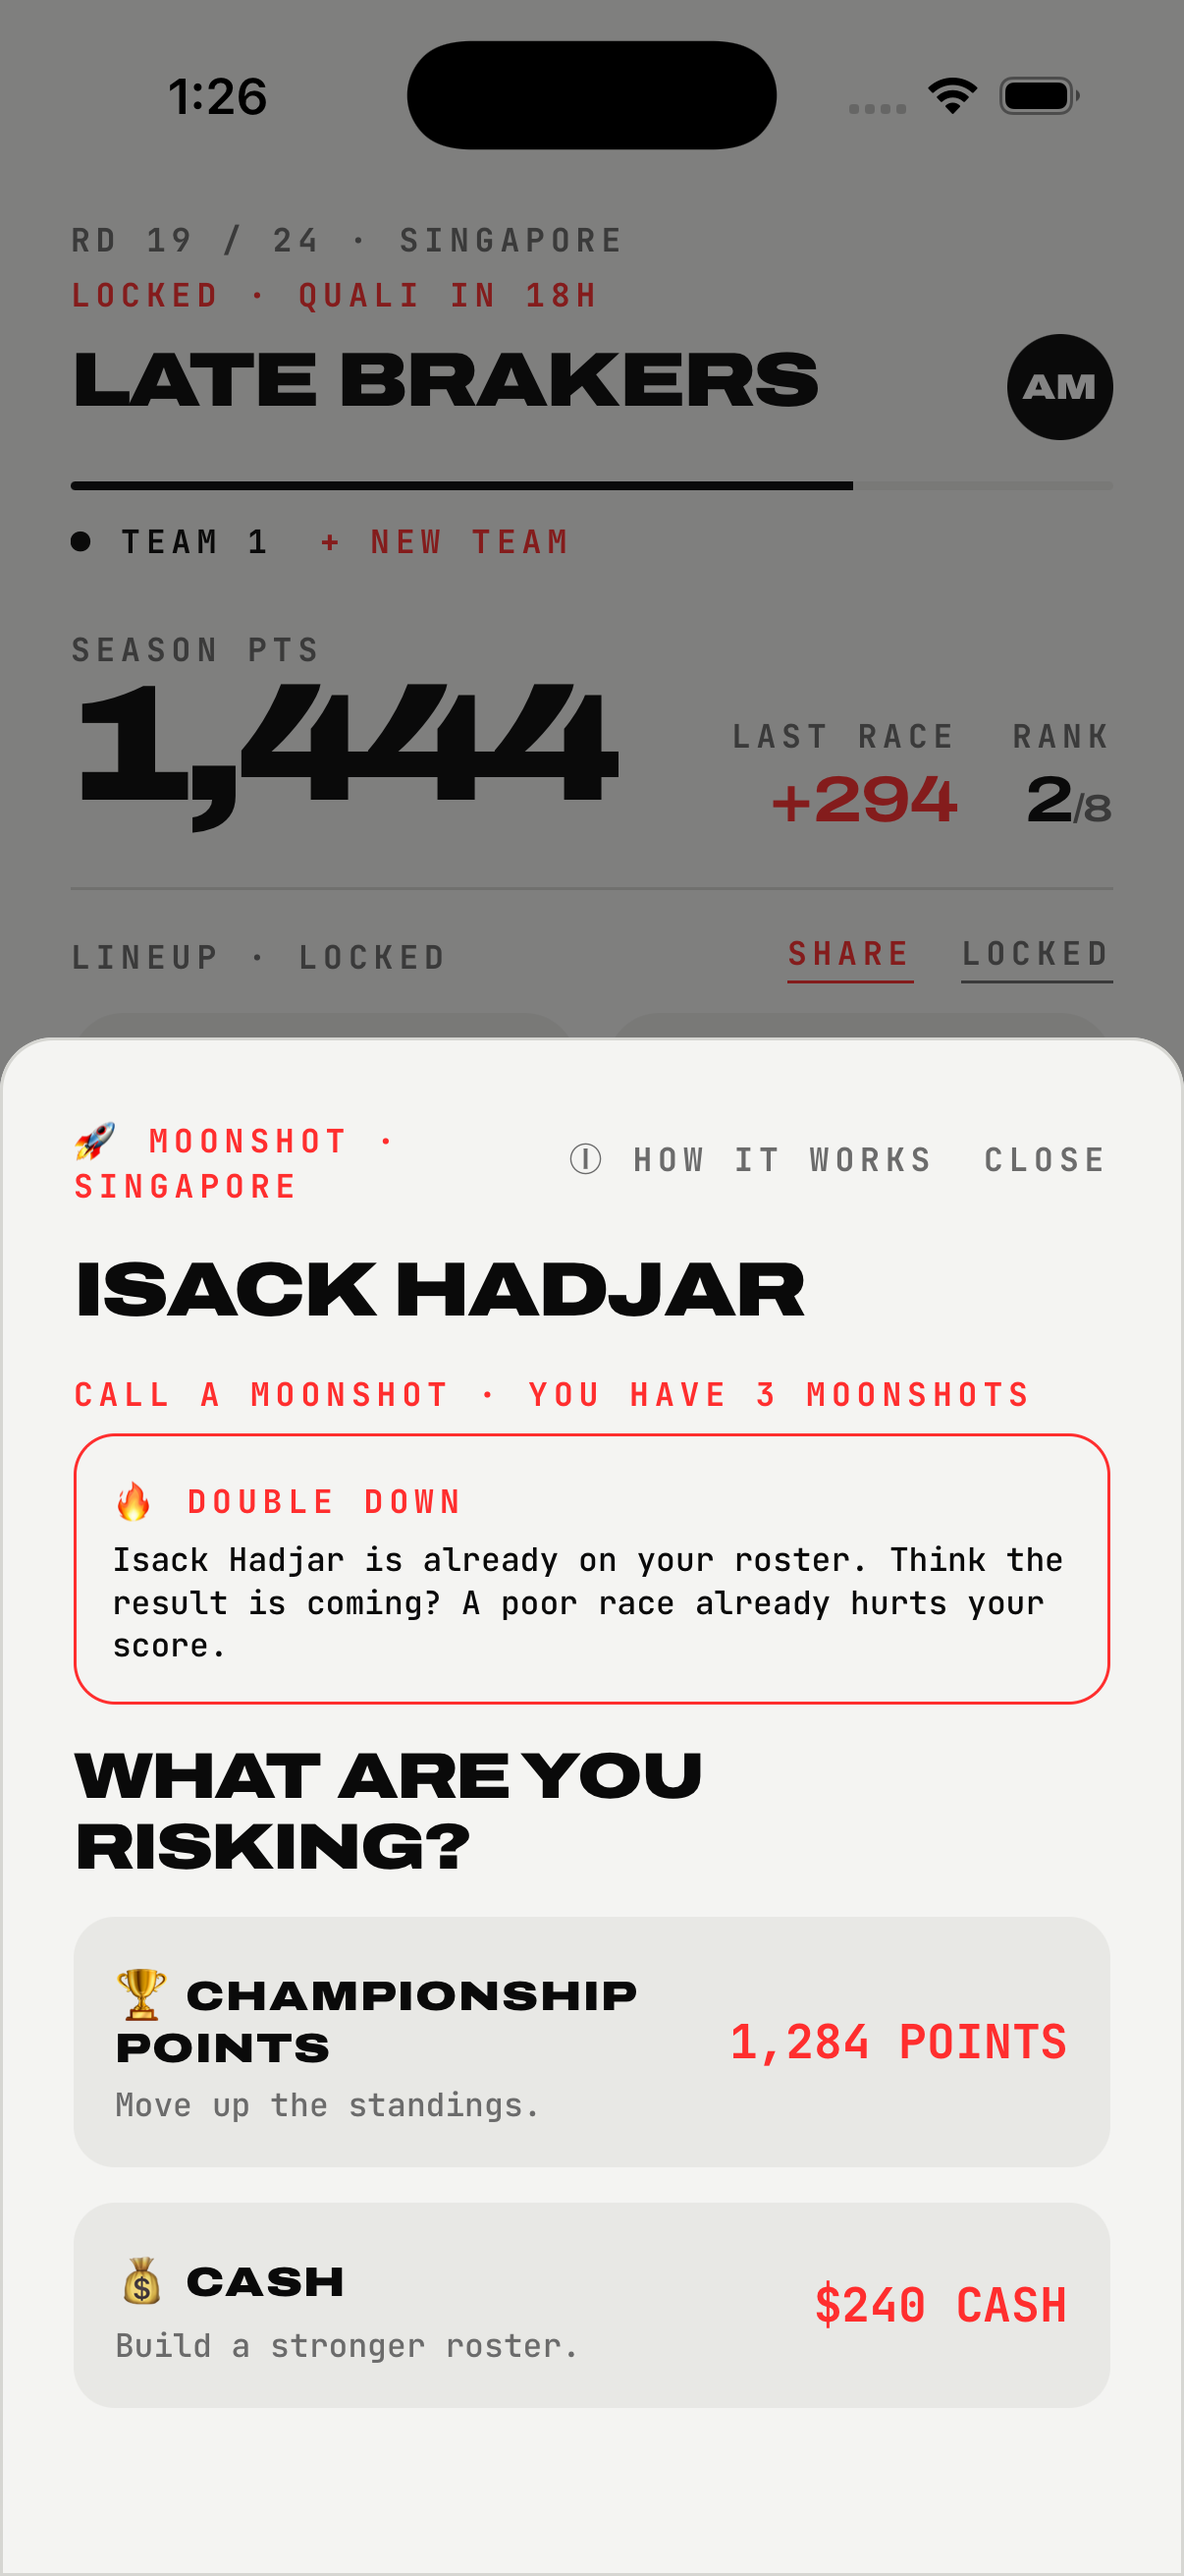
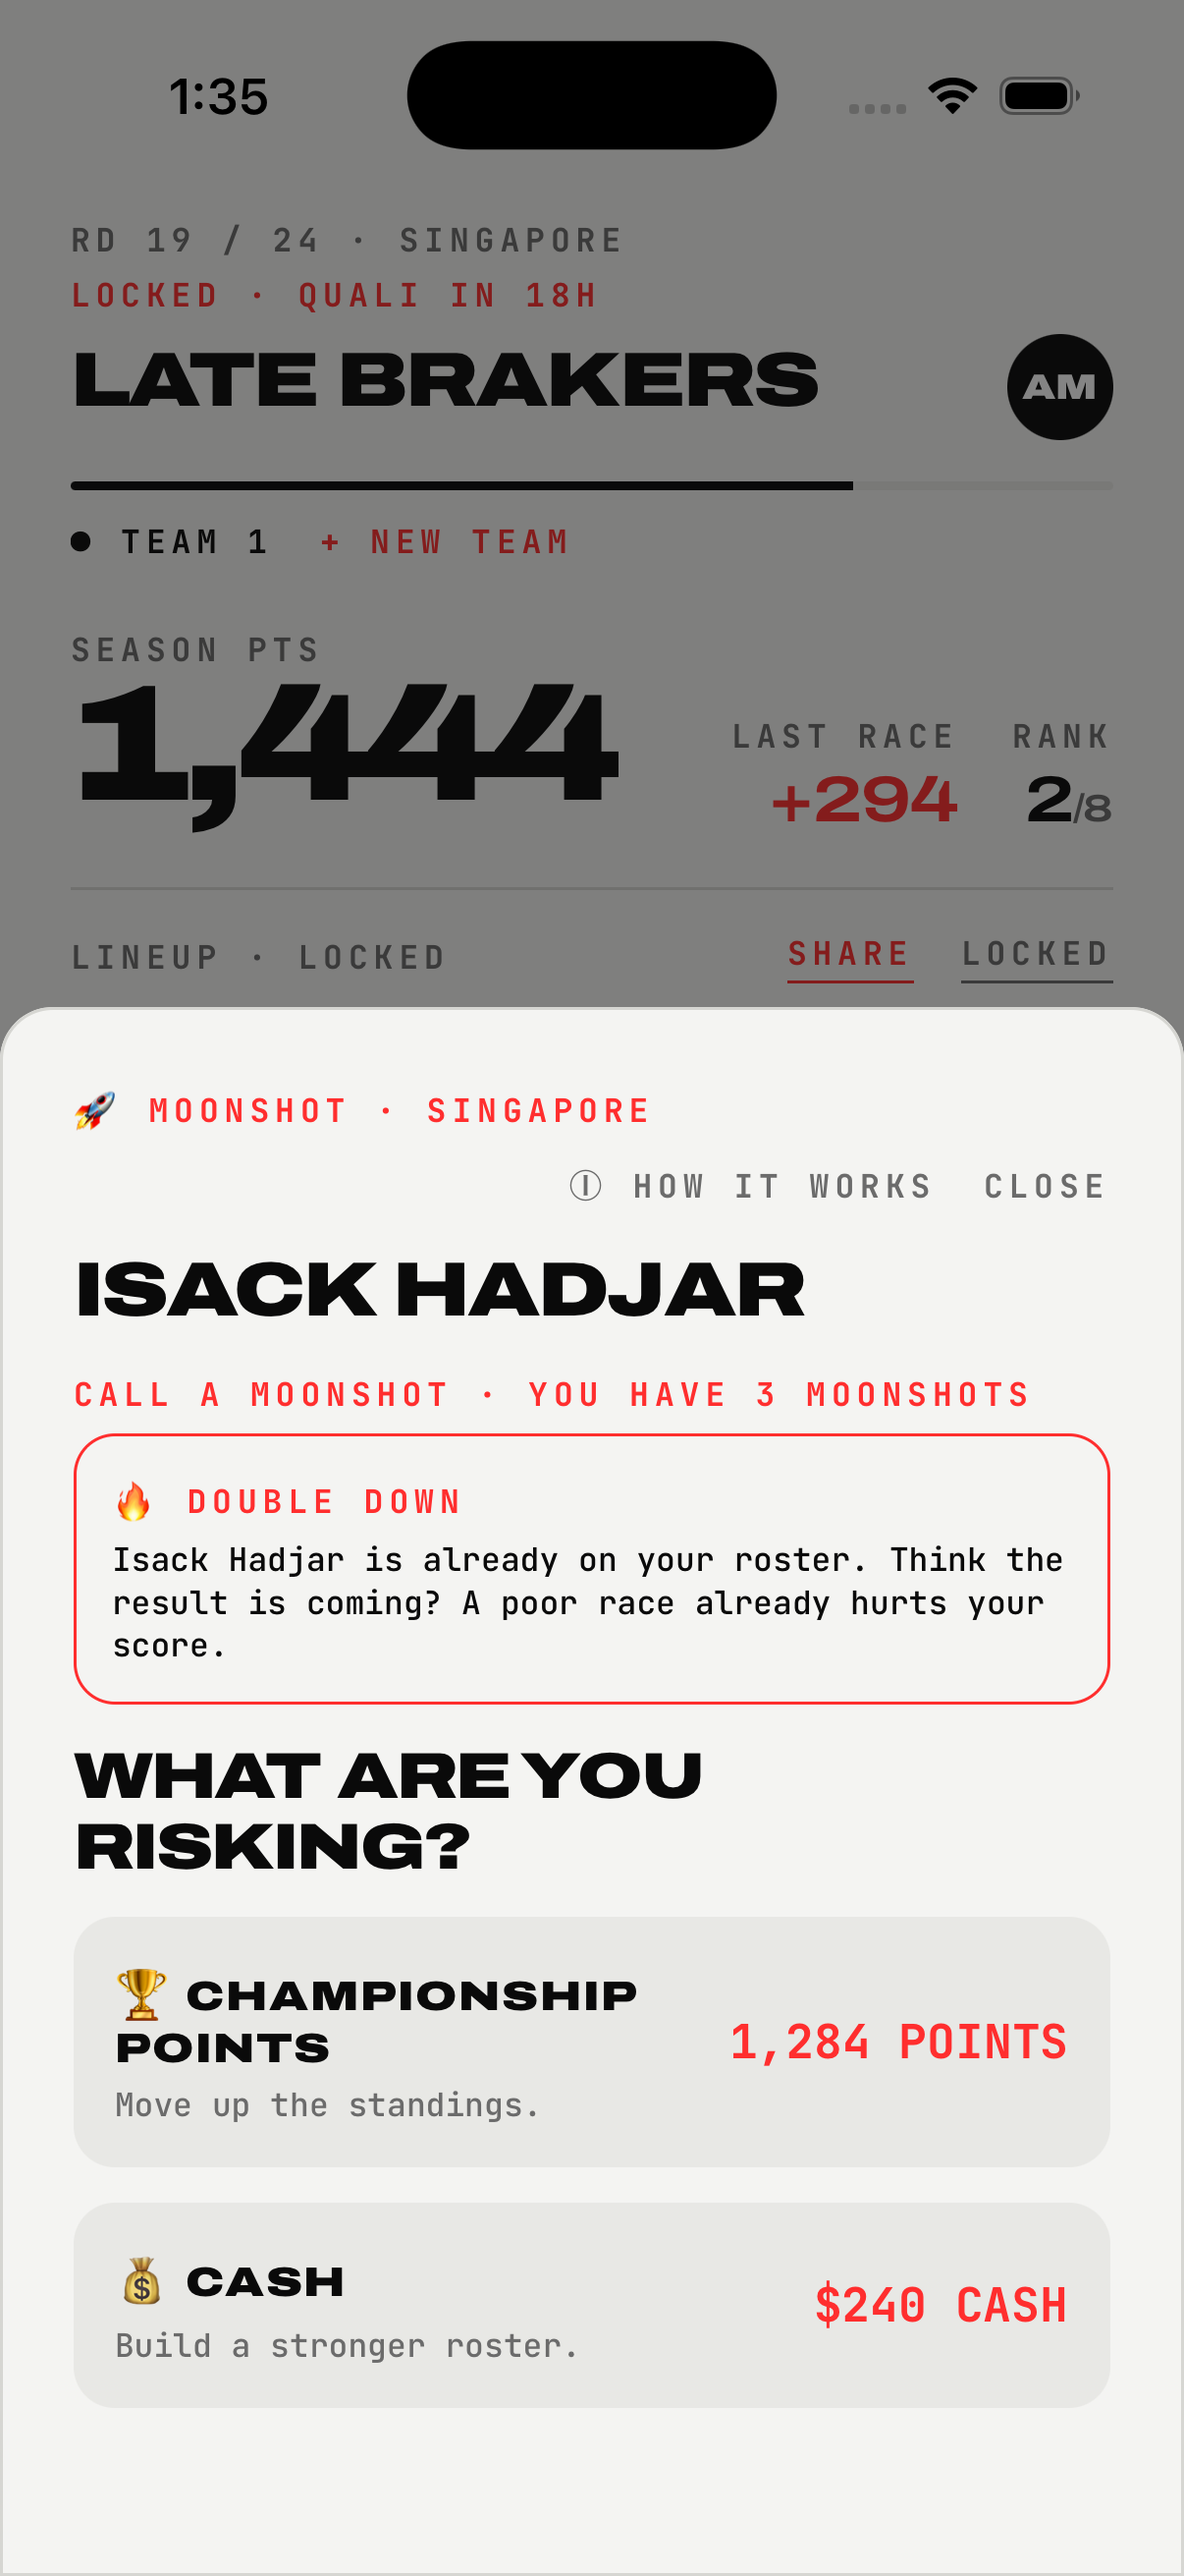
fix(uc): the Moonshot sheet header wraps instead of squeezing the title (F-108)
From the local review: one row with a shrinking title collapsed at the larger
display sizes. The row now wraps, so the buttons drop to their own line when
they do not fit, and neither the title nor the name is capped. Checked on the
simulator at M and XXL.

diff --git a/src/simple/grid/GridMoonshotSheet.tsx b/src/simple/grid/GridMoonshotSheet.tsx
@@ -283,17 +283,17 @@ export function GridMoonshotSheet({ target, cfg, onClose, onChanged }: Props) {
         <Pressable style={[StyleSheet.absoluteFill, { backgroundColor: colors.scrim }]} onPress={onClose} accessibilityRole="button" accessibilityLabel="Close" />
         <View style={{ maxHeight: '88%', backgroundColor: colors.surface, borderTopLeftRadius: 18, borderTopRightRadius: 18, borderWidth: 1, borderColor: colors.border }}>
           <ScrollView contentContainerStyle={{ padding: spacing.xl, paddingBottom: Math.max(insets.bottom, 12) + 22, gap: 14 }} showsVerticalScrollIndicator={false}>
-            {/* the title gives way, never the buttons: on a long race name it wraps instead of pushing CLOSE off the edge */}
-            <View style={{ flexDirection: 'row', justifyContent: 'space-between', alignItems: 'center', gap: 12 }}>
-              <MonoLabel color={colors.primary} numberOfLines={2} style={{ flex: 1, minWidth: 0 }}>🚀 {copyText(copy, 'tabTitle')} · {shortRaceName(target.raceName).toUpperCase()}</MonoLabel>
-              <View style={{ flexDirection: 'row', gap: 16, flexShrink: 0 }}>
+            {/* a wrapping row: when the title and the buttons do not fit side by side (most race names, any larger display size) the buttons drop to their own line instead of running off the edge */}
+            <View style={{ flexDirection: 'row', flexWrap: 'wrap', justifyContent: 'space-between', alignItems: 'center', columnGap: 12, rowGap: 10 }}>
+              <MonoLabel color={colors.primary} style={{ flexShrink: 1 }}>🚀 {copyText(copy, 'tabTitle')} · {shortRaceName(target.raceName).toUpperCase()}</MonoLabel>
+              <View style={{ flexDirection: 'row', flexWrap: 'wrap', flexShrink: 1, marginLeft: 'auto', columnGap: 16, rowGap: 10 }}>
                 <Pressable onPress={() => { openTutorial(); track('moonshot_tutorial_viewed', { from: 'info' }); }} hitSlop={12} accessibilityRole="button" accessibilityLabel="How Moonshots work"><MonoLabel color={colors.text.muted}>ⓘ HOW IT WORKS</MonoLabel></Pressable>
                 <Pressable onPress={onClose} hitSlop={12} accessibilityRole="button" accessibilityLabel="Close"><MonoLabel color={colors.text.muted}>CLOSE</MonoLabel></Pressable>
               </View>
             </View>
             {showName ? (
-              // no adjustsFontSizeToFit: this mounts once the menu has loaded, and on iOS the fit then shrinks the name to a few points
-              <Text numberOfLines={2} style={{ fontFamily: family.ui.black, fontSize: scaled(26), lineHeight: scaled(28), letterSpacing: -scaled(26) * 0.03, textTransform: 'uppercase', color: colors.text.primary }}>{target.driverName}</Text>
+              // no adjustsFontSizeToFit: on iOS it rendered this name a few points high the first time the sheet opened; a long name wraps
+              <Text style={{ fontFamily: family.ui.black, fontSize: scaled(26), lineHeight: scaled(28), letterSpacing: -scaled(26) * 0.03, textTransform: 'uppercase', color: colors.text.primary }}>{target.driverName}</Text>
             ) : null}
             {body()}
           </ScrollView>

diff --git a/.aidlc/specs/F-108.md b/.aidlc/specs/F-108.md
@@ -37,11 +37,16 @@ Tile sheet opens with one extra read (tokens and current call from the team docu
 
 ## Follow-up 2026-10-09: two faults on iPhone
 Seen while checking the sheet on the iOS simulator for 2.5.2, and present since the sheet shipped
-(`docs/design/grid/verify/F-108-ios-moonshot-sheet-before.png`, `…-after.png`).
-- The header row was wider than the sheet on a long race name, so CLOSE was clipped at the right
-  edge. The title now takes the space that is left and wraps; the two buttons never shrink.
+(`docs/design/grid/verify/F-108-ios-moonshot-sheet-before.png`, `…-after.png`, `…-after-xxl.png`).
+- The header row was wider than the sheet, so CLOSE was clipped at the right edge. It happened at
+  the default size on a nine-letter race name, so on most races. The row now wraps: when the title
+  and the two buttons do not fit side by side the buttons drop to their own line, right-aligned.
+  Nothing is capped or truncated, so the same holds at larger display sizes (the first cut kept
+  one row and squeezed the title, which the local review showed collapsing at XL and above).
 - The driver's name rendered a few points high the first time the sheet opened and was the right
-  size from the next step on. It mounts once the menu has loaded, and `adjustsFontSizeToFit` on iOS
-  then shrinks it far below `minimumFontScale`. The fit is gone; a long name wraps to a second line.
-Checked on the simulator (Release build, demo data) with two drivers. Not checked: Android, a name
-long enough to wrap, and larger display sizes.
+  size from the next step on. Observed, not explained: removing `adjustsFontSizeToFit` from that
+  Text cures it, and the same props on the tile sheet's name do not show it. The name is no longer
+  fitted or capped; a long one wraps.
+Checked on the iOS simulator (Release build, demo data) at display size M and XXL; at XXL the
+name wraps to two lines at full size. Not checked: Android, and a phone narrower than 402pt. No
+render test covers the sheet.
